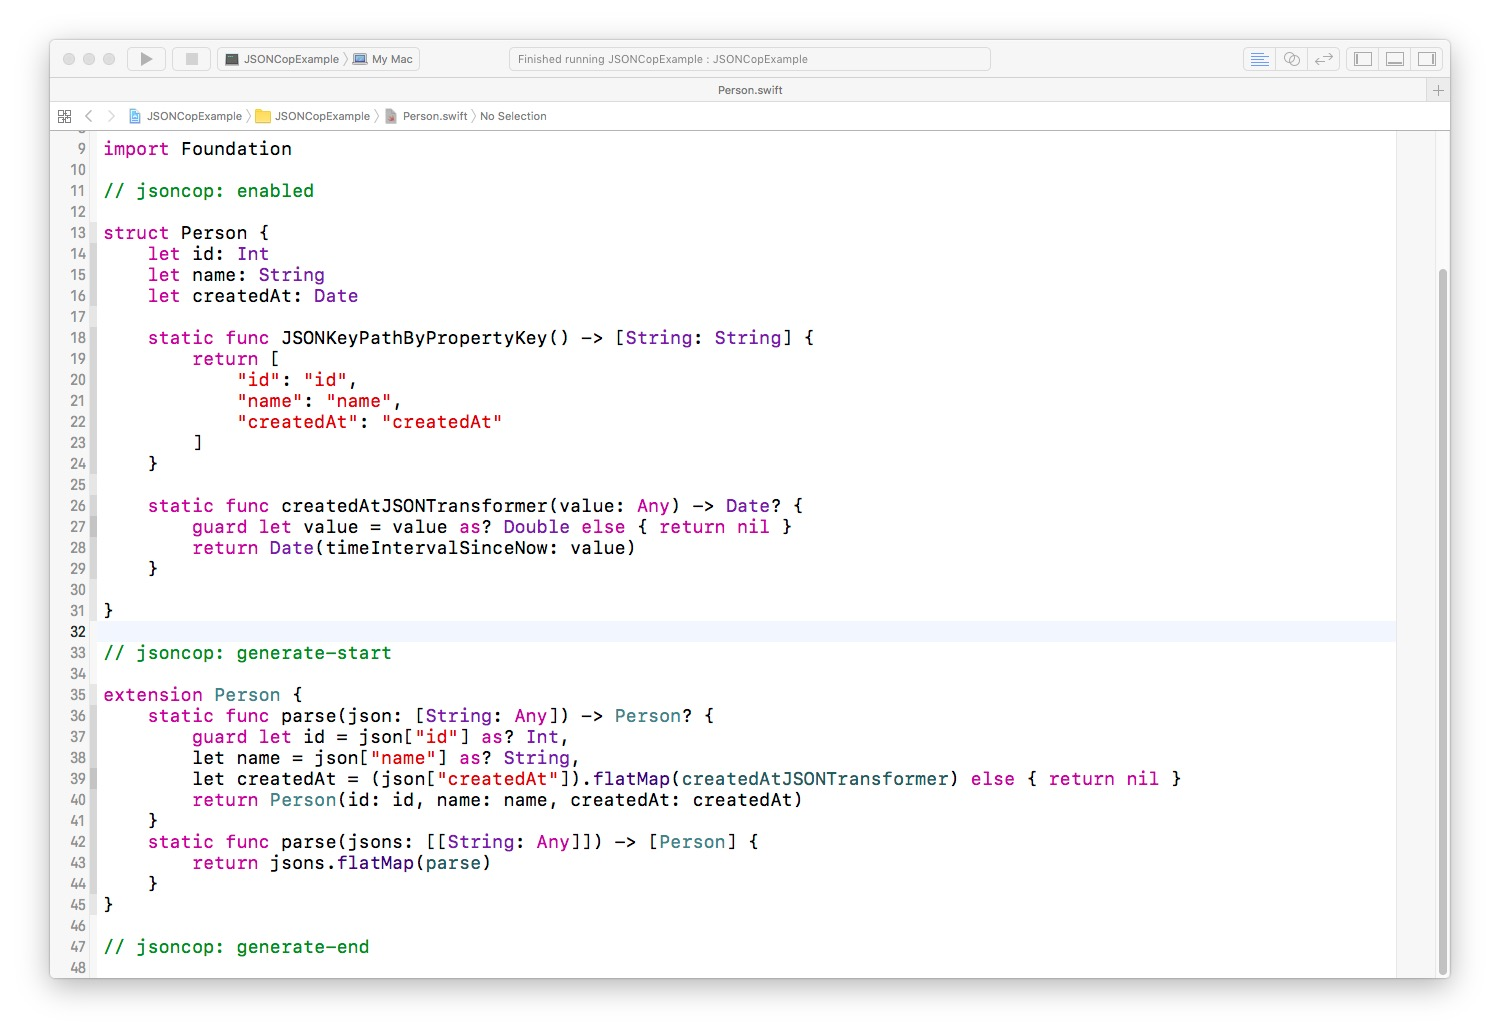
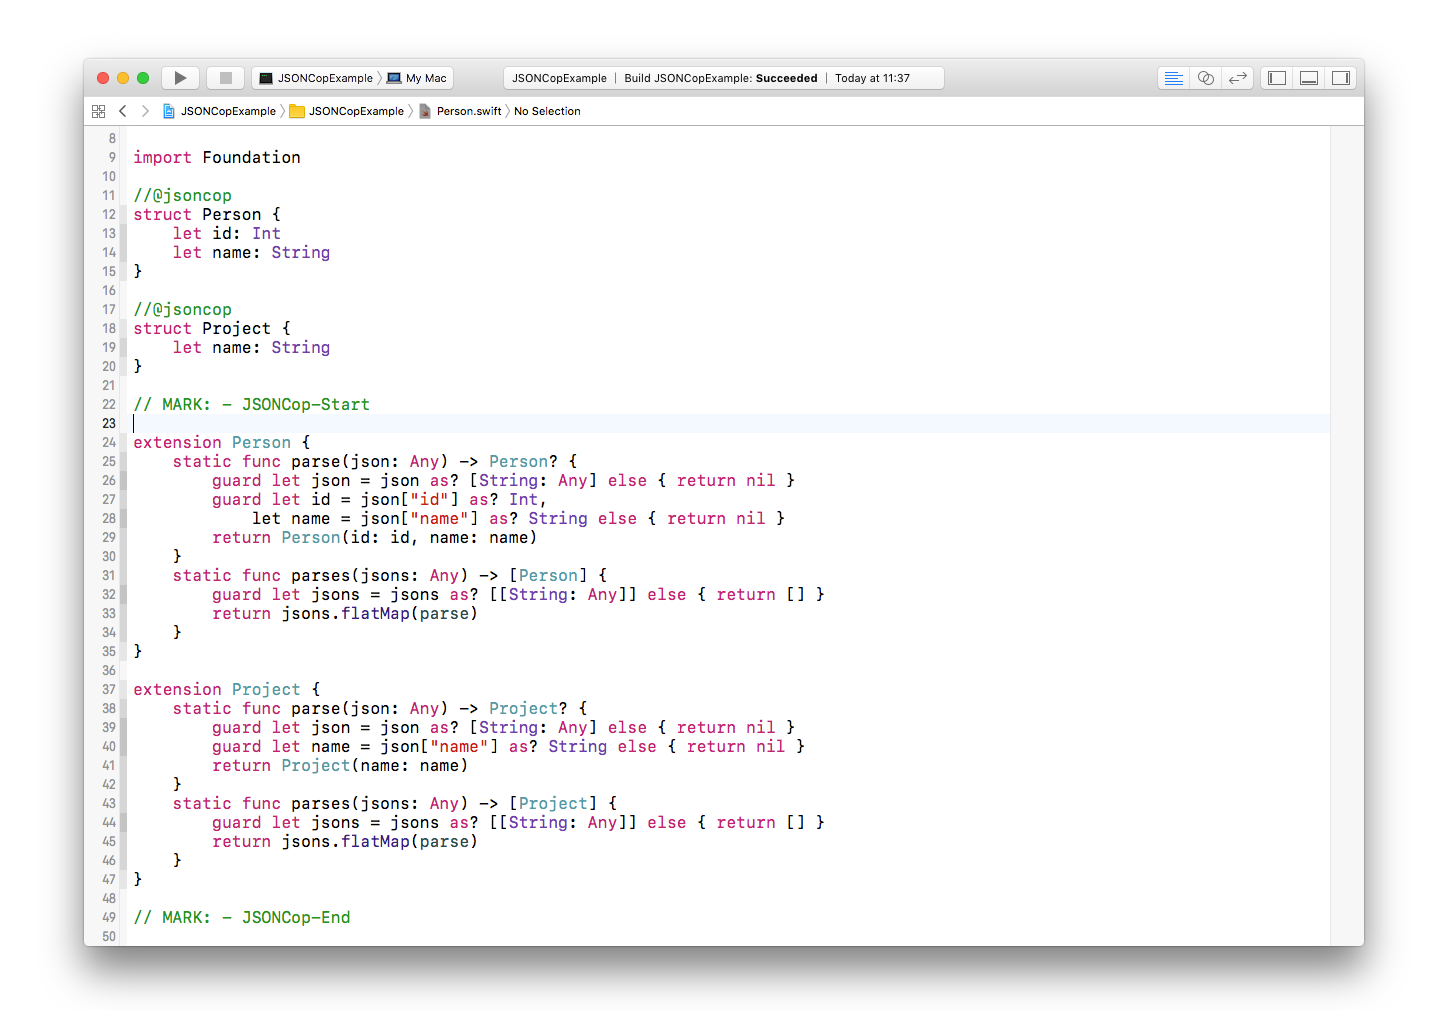
Upload new images

Changed region(s): [[0.0312, 0.0307, 0.9667, 0.9822], [0.499, 0.5832, 0.5301, 0.6139]]

diff --git a/README.md b/README.md
@@ -19,33 +19,15 @@ let person = Person.parse(json: json)
 
 ## Usage
 
-Define a model with and implement `static func JSONKeyPathByPropertyKey` method:
+Define a model with and **add `//@jsoncop` just before model definition line**:
 
 ```swift
-// jsoncop: enabled
-
+//@jsoncop
 struct Person {
     let id: Int
     let name: String
-    let createdAt: Date
-
-    static func JSONKeyPathByPropertyKey() -> [String: String] {
-        return [
-            "id": "id",
-            "name": "name",
-            "createdAt": "createdAt"
-        ]
-    }
-
-    static func createdAtJSONTransformer(value: Any) -> Date? {
-        guard let value = value as? Double else { return nil }
-        return Date(timeIntervalSinceNow: value)
-    }
 }
 ```
-
-> DO NOT forget to add "// jsoncop: enabled" before struct.
-
 Run `cop install` in project root folder.
 
 ```shell
@@ -56,7 +38,7 @@ This will generate several parsing methods in current file without affecting oth
 
 ![](./images/jsoncop-demo.png)
 
-All the code between `generate-start` and `generate-end` and will be replaced when re-run `cop install` in current project folder. Other codes will remain unchanged. Please don't write any codes in this area.
+All the code between `// MARK: - JSONCop-Start` and `// MARK: - JSONCop-End` and will be replaced when re-run `cop install` in current project folder. Other codes will remain unchanged. Please don't write any codes in this area.
 
 ## Installation
 
